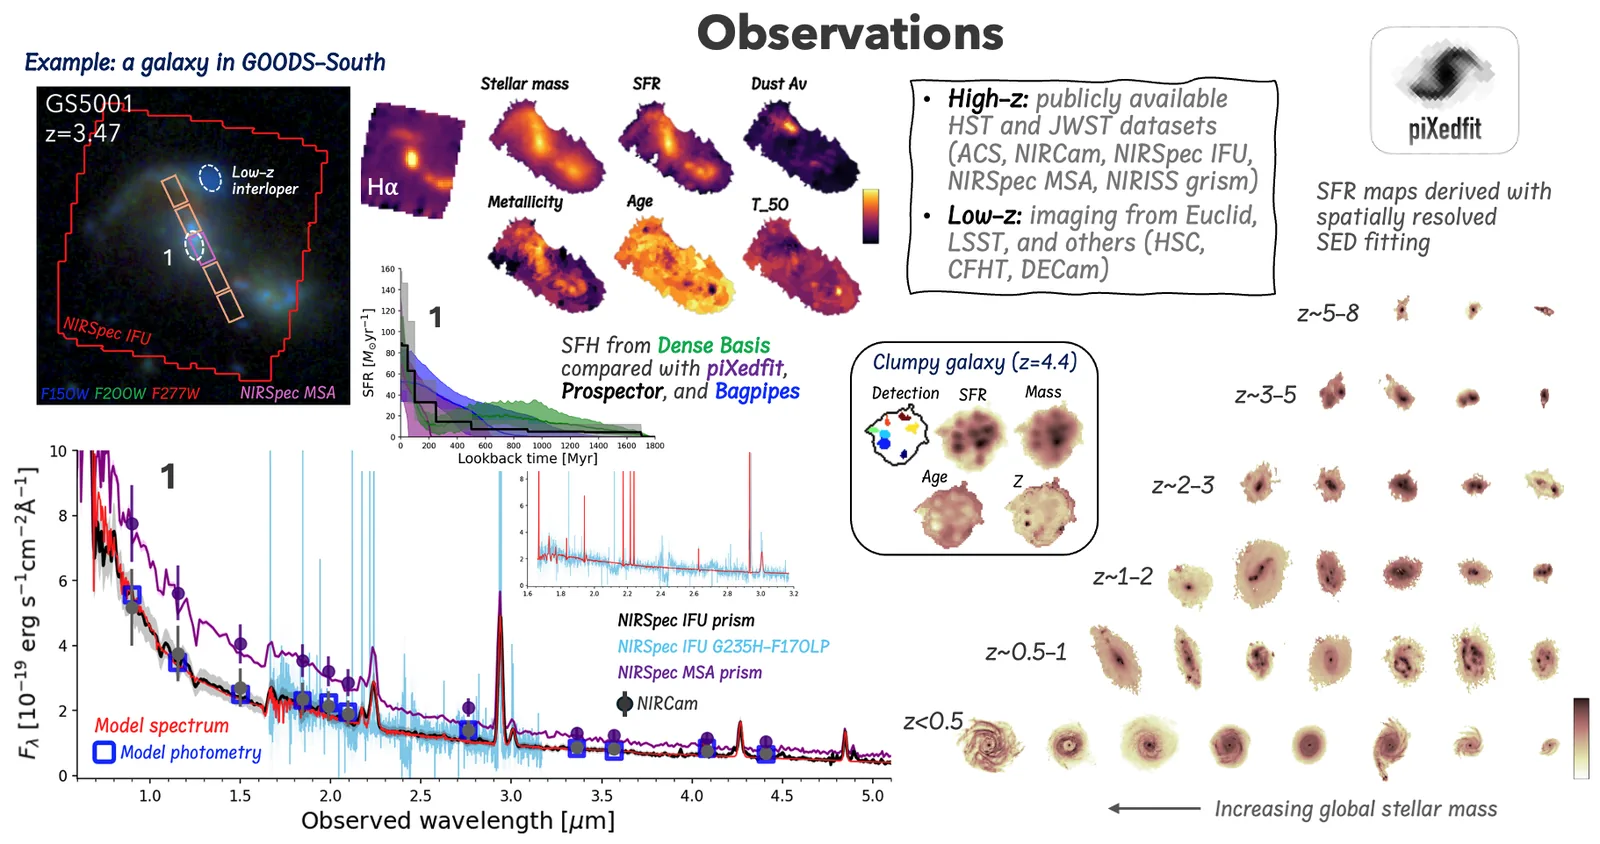
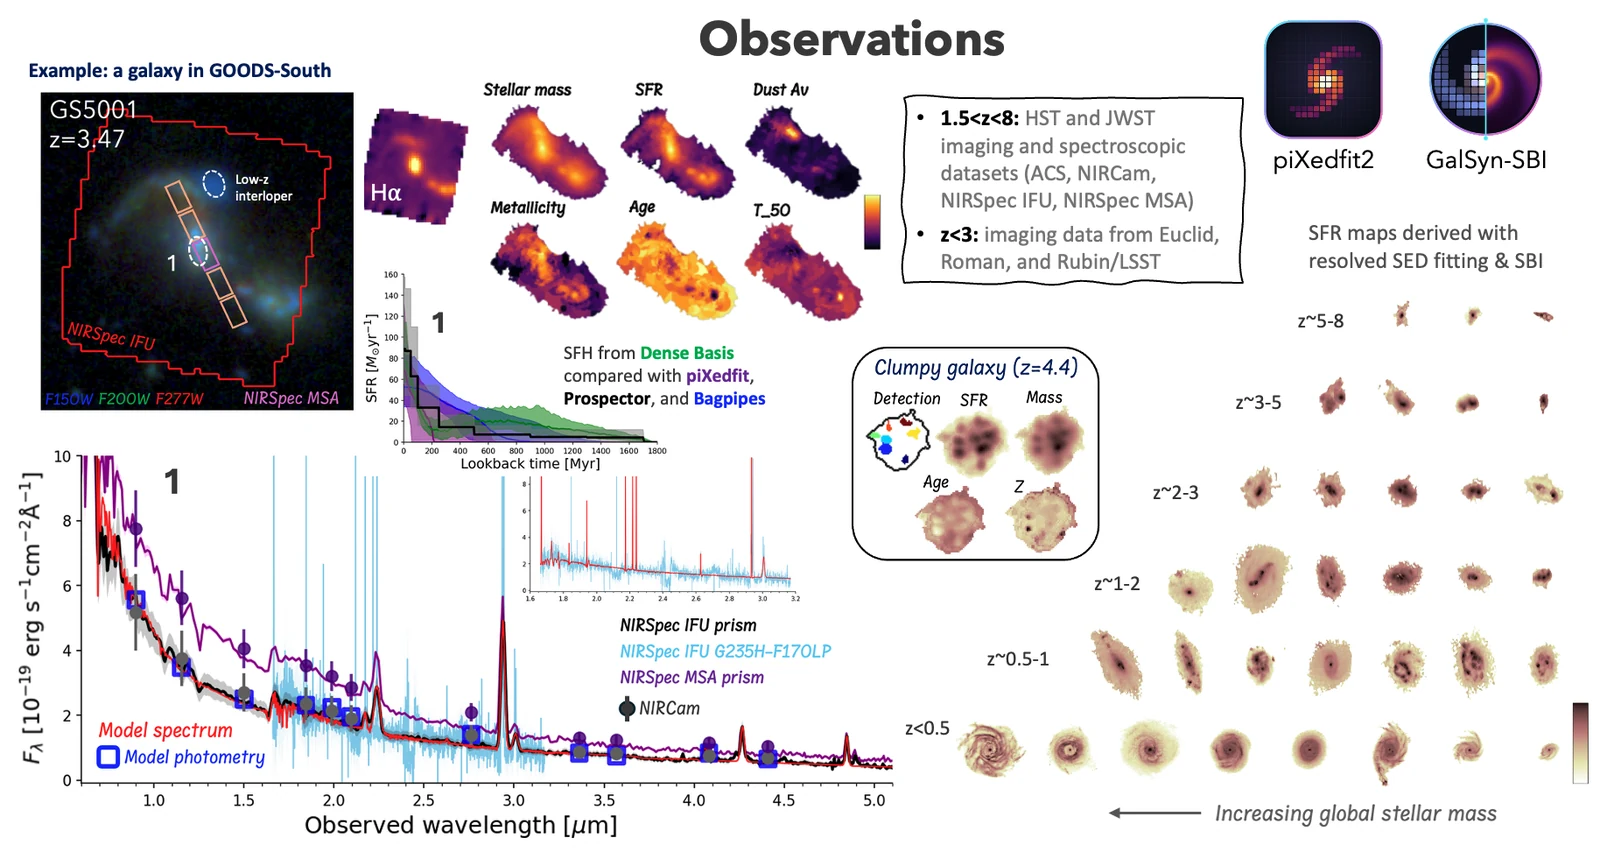
Update Fig. 7 on structural evolution page

diff --git a/research/structural-evolution/index.html b/research/structural-evolution/index.html
@@ -84,8 +84,8 @@
 <h2>Combining JWST imaging and spectroscopy</h2>
 <p>Pairing NIRCam imaging with NIRSpec IFU and MSA spectroscopy gives maps of stellar mass, SFR, dust, metallicity, age, and formation time, with star-formation histories cross-checked across SED codes (piXedfit, Prospector, Bagpipes, Dense Basis). This multi-tracer approach also reveals clumpy galaxies and their individual clumps at z ~ 4.</p>
 <figure class="figure reveal">
-  <img src="/assets/img/resolved-maps.webp" alt="Left: a z = 3.47 galaxy in GOODS-S combining NIRCam imaging with NIRSpec IFU and MSA spectroscopy. Middle: a clumpy galaxy at z = 4.4 with detected clumps. Right: SFR maps across 0 < z < 8 ordered by stellar mass." loading="lazy">
-  <figcaption><b>Fig. 7</b>Left: a z = 3.47 galaxy in GOODS-S combining NIRCam imaging with NIRSpec IFU and MSA spectroscopy. Middle: a clumpy galaxy at z = 4.4 with detected clumps. Right: SFR maps across 0 < z < 8 ordered by stellar mass.</figcaption>
+  <img src="/assets/img/resolved-maps.webp?v=2" alt="Left: GS5001, a z = 3.47 galaxy in GOODS-South combining NIRCam imaging with NIRSpec IFU and MSA spectroscopy, with maps of stellar mass, SFR, dust, metallicity, age, and formation time, and its star-formation history cross-checked across Dense Basis, piXedfit, Prospector, and Bagpipes. Middle: a clumpy galaxy at z = 4.4 with detected clumps. Right: SFR maps from z ~ 8 to today derived with resolved SED fitting and simulation-based inference (piXedfit2 and GalSyn-SBI), ordered by stellar mass." loading="lazy">
+  <figcaption><b>Fig. 7</b>Left: GS5001, a z = 3.47 galaxy in GOODS-South combining NIRCam imaging with NIRSpec IFU and MSA spectroscopy, with maps of stellar mass, SFR, dust, metallicity, age, and formation time, and its star-formation history cross-checked across Dense Basis, piXedfit, Prospector, and Bagpipes. Middle: a clumpy galaxy at z = 4.4 with detected clumps. Right: SFR maps from z ~ 8 to today derived with resolved SED fitting and simulation-based inference (piXedfit2 and GalSyn-SBI), ordered by stellar mass.</figcaption>
 </figure>
 
 <div class="highlight-box reveal">
